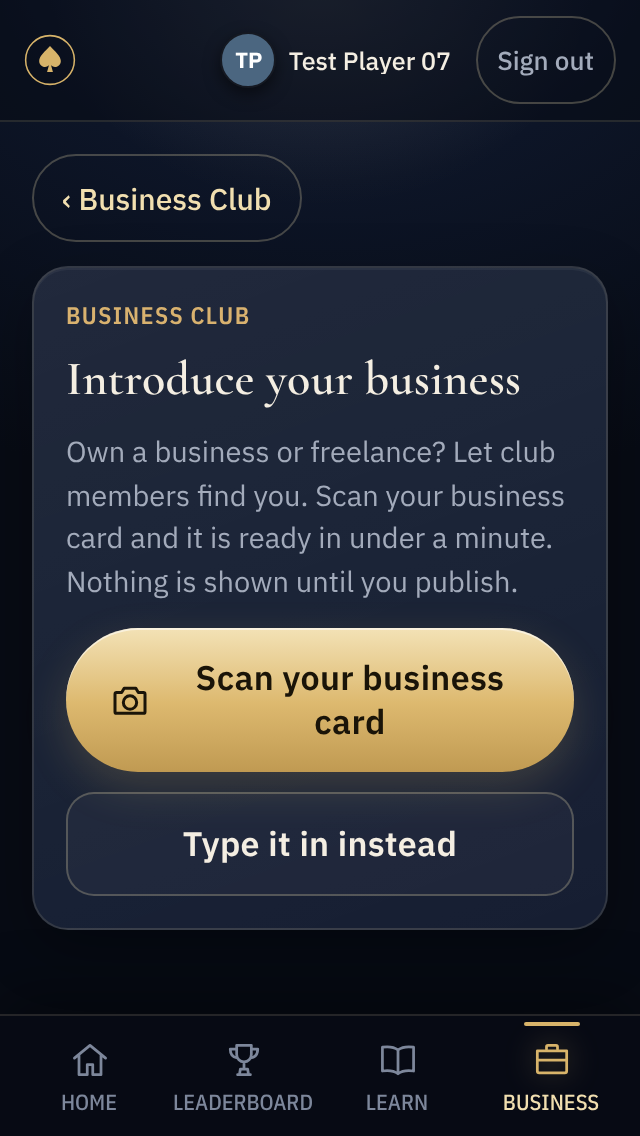
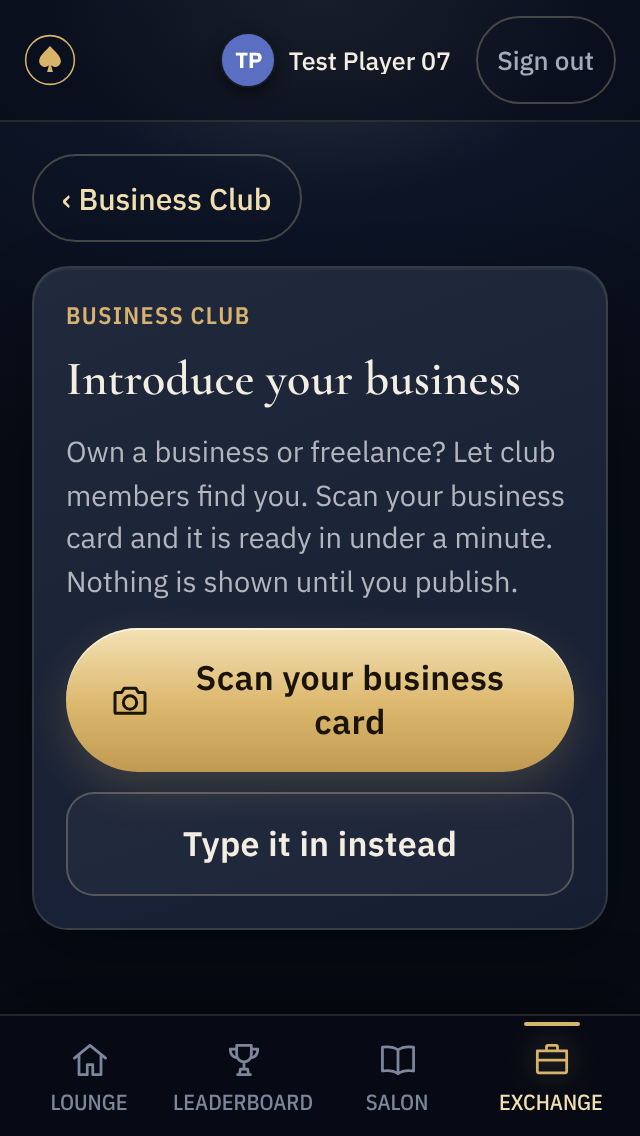
Premium UI increment 2: brand direction (The Lounge, Strategy Table, Exchange, Bulletin, Salon), brand line, ivory/stone accents, refined seats and badges, calm Home
Presentation only; server/ and package files unchanged vs c4445ed.
Tests: t_premium_ui 295 ok / 0 failed, npm test, t_welcome, t_registration, t_mobile_ux (72 ok),
t_table_small, t_bizsearch, scan_csp (SIMD and --no-simd) all pass.

Claude-Session: https://claude.ai/code/session_01NMwfXfHoULCfWgofcbDTQf

diff --git a/public/style.css b/public/style.css
@@ -1327,7 +1327,7 @@ label.btn{display:flex;align-items:center;justify-content:center;gap:8px;cursor:
   --lx-ink:#070b14; --lx-ink2:#0b1222; --lx-navy:#111a2e; --lx-navy2:#17223b; --lx-navy3:#1e2a47;
   --lx-gold:#d8b46a; --lx-gold-hi:#f1dfb0; --lx-gold-deep:#9c7a3c; --lx-ivory:#f4eee2; --lx-mute:#a3abbb; --lx-mute2:#7d879b;
   --lx-hair:rgba(241,223,176,.13); --lx-hair2:rgba(241,223,176,.26); --lx-glass:linear-gradient(160deg,rgba(255,255,255,.065),rgba(255,255,255,.018));
-  --lx-emerald:#3fae7a; --lx-garnet:#b3343c;
+  --lx-stone:#b9b1a3; --lx-stone-deep:#8a8377; --lx-emerald:#3fae7a; --lx-garnet:#b3343c;
   --lx-gold-grad:linear-gradient(180deg,#f3e2b6 0%,#ddb96f 52%,#c09a52 100%);
   /* type */
   --lx-serif:"Cormorant Garamond","Iowan Old Style","Palatino Linotype",Georgia,serif;
@@ -1412,7 +1412,7 @@ body{background:var(--lx-ink)}
 #lobby .seg2.small button{font-size:13px;padding:6px 4px;min-width:0}
 #lobby .form label{font-family:var(--cond);font-size:var(--lx-t-xs);letter-spacing:.16em;text-transform:uppercase;color:var(--lx-gold)}
 #lobby input:not([type=checkbox]):not([type=radio]):not([type=range]):not([type=file]),#lobby select,#lobby textarea,#modalRoot input:not([type=checkbox]):not([type=radio]):not([type=range]):not([type=file]),#modalRoot select,#modalRoot textarea{
-  min-height:var(--lx-tap);background:rgba(5,8,15,.6);border:1px solid var(--lx-hair2);border-radius:12px;color:var(--lx-ivory)}
+  min-height:var(--lx-tap);background-color:rgba(5,8,15,.6);border:1px solid var(--lx-hair2);border-radius:12px;color:var(--lx-ivory)}
 #lobby input:focus,#lobby select:focus,#lobby textarea:focus,#modalRoot input:focus,#modalRoot select:focus,#modalRoot textarea:focus{outline:none;border-color:var(--lx-gold);box-shadow:0 0 0 3px rgba(216,180,106,.18)}
 #lobby details>summary,#modalRoot details>summary{min-height:var(--lx-tap)}
 #lobby .row-btns,#lobby .btn-row{gap:var(--lx-s2)}
@@ -1603,7 +1603,7 @@ body{background:var(--lx-ink)}
   #lobby .hsec-t h2{font-size:23px}
 }
 /* narrow phones: the gold crest alone, so your whole name fits beside it */
-@media (max-width:380px){#lobby .mini-logo .lx-word{display:none}}
+@media (max-width:400px){#lobby .mini-logo .lx-word{display:none}}
 @media (prefers-reduced-motion:reduce){#lobby *,#modalRoot *{transition:none!important}}
 #lobby .av.xs,#modalRoot .av.xs{font-size:11px}
 
@@ -1643,3 +1643,44 @@ body{background:var(--lx-ink)}
 }
 #game .turnrow{position:relative;z-index:3}
 #modalRoot .glass{grid-template-columns:minmax(0,1fr)}
+
+/* ---------- brand direction: The Lounge, ivory and stone accents, editorial type, calm (nothing pulses) ---------- */
+#lobby,#modalRoot{--need:#e6d3a8;--need-soft:rgba(230,211,168,.1);--need-line:rgba(230,211,168,.4)}
+#lobby .op-card-ic,#lobby .op-dhead .op-card-ic{background:rgba(230,211,168,.1);color:var(--lx-gold-hi);border:1px solid rgba(230,211,168,.35)}
+#lobby .offer>.op-card-ic,#lobby .op-dhead .op-card-ic.offer,#lobby .op-detail.offer .op-card-ic{background:rgba(63,174,122,.12);color:#8fe6c4;border-color:rgba(63,174,122,.4)}
+#lobby .hsec-t small.live::before{animation:none}
+#lobby .lx-hello{gap:20px;padding-top:4px}
+#lobby .lx-brandline{display:flex;align-items:baseline;justify-content:space-between;gap:10px;padding-bottom:10px;border-bottom:1px solid var(--lx-hair)}
+#lobby .lx-brandline .eyebrow{color:var(--lx-stone);letter-spacing:.18em}
+#lobby .lx-lounge{font-family:var(--lx-serif);font-style:italic;font-size:17px;color:var(--lx-gold-hi);white-space:nowrap}
+#lobby .lx-greet{color:var(--lx-stone)}
+#lobby .lx-door-t small{color:var(--lx-stone)}
+#lobby .lx-door.lx-poker,#lobby .lx-door.lx-scan{grid-column:1/-1;grid-template-columns:auto 1fr auto;align-items:center;align-content:center}
+#lobby .lx-door.lx-scan{min-height:76px}
+#lobby .lx-scan .lx-chev{display:block}
+#lobby .lx-door{min-height:116px}
+#lobby .lx-motto{margin:4px 0 0;text-align:center;font-size:13px;letter-spacing:.04em;color:var(--lx-stone)}
+#lobby .lx-motto b{display:block;font-family:var(--lx-serif);font-style:italic;font-weight:500;font-size:24px;letter-spacing:.01em;color:var(--lx-ivory);margin-bottom:2px}
+#lobby .lx-motto::before{content:"";display:block;width:56px;height:1px;margin:0 auto 14px;background:linear-gradient(90deg,transparent,var(--lx-gold),transparent)}
+#lobby .lx-pagehead{display:grid;gap:2px;padding:4px 2px 6px}
+#lobby .lx-pagehead .eyebrow{color:var(--lx-stone)}
+#lobby .lx-pagehead h2{margin:0;font-family:var(--lx-serif);font-weight:600;font-size:34px;line-height:1.05;color:var(--lx-ivory);letter-spacing:.005em}
+#lobby .lx-pagehead h2::after{content:"";display:block;width:44px;height:1px;margin-top:10px;background:var(--lx-gold)}
+#lobby .note{border-left-color:var(--lx-stone-deep)}
+#lobby .card-box p,#lobby .hsec-t small{color:#b3b6bd}
+/* table seats: monogram avatars with a lit face and a gold hairline, refined plates, clear but calm status colours
+   (sizes unchanged, so the seat layout solver is unaffected) */
+#game .av{border-color:#0a0f1b;background:radial-gradient(circle at 34% 28%,rgba(255,255,255,.26),rgba(255,255,255,0) 58%),var(--c,#555);box-shadow:0 0 0 1px rgba(216,180,106,.55),0 4px 10px rgba(0,0,0,.55);letter-spacing:.02em}
+#game .av.tiered{box-shadow:0 0 0 2px var(--ring),0 4px 10px rgba(0,0,0,.55)}
+#game .plate{border-radius:10px;box-shadow:inset 0 1px 0 rgba(241,223,176,.14),0 4px 12px rgba(0,0,0,.5)}
+#game .nm{letter-spacing:.01em}
+#game .st{color:var(--lx-gold-hi)}
+#game .seat.hero .plate{border-color:rgba(216,180,106,.6)}
+#game .seat.folded .av,#game .seat.folded .plate{filter:grayscale(.7)}
+#game .badge{background:#24304f;color:var(--lx-ivory);box-shadow:inset 0 0 0 1px rgba(241,223,176,.2)}
+#game .badge.act-call,#game .badge.act-check{background:#2a7a56;color:#effff7;box-shadow:none}
+#game .badge.act-all-in{background:#9e2a31;color:#fff2f2;box-shadow:none}
+#game .badge.hand{background:#1b2643;color:var(--lx-gold-hi);box-shadow:inset 0 0 0 1px rgba(216,180,106,.4)}
+#game .badge.won{background:var(--lx-gold-grad);color:#1a1408;box-shadow:none}
+#game .pot{color:var(--lx-gold-hi)}
+#lobby .tbl td:first-child,#lobby .statgrid b,#lobby .bigpts,#game .lvl b,#modalRoot .prof .statgrid b{font-variant-numeric:lining-nums tabular-nums}

diff --git a/public/app.js b/public/app.js
@@ -177,20 +177,20 @@ function renderLobby(){
   document.querySelector('.app').classList.toggle('wide', tab === 'biz' || (home && clubsVisible && !playing));
   if(tab === 'biz'){ body.replaceChildren(); window.BizClub.render(body); return; }
   if(home) renderHome(body, clubsOn, clubsVisible && !playing);
-  else body.innerHTML = tab === 'board' ? boardHTML() : tab === 'learn' ? learnHTML() : directorHTML();
+  else body.innerHTML = tab === 'board' ? pageHead('Poker · The Strategy Table', 'Club standings') + boardHTML() : tab === 'learn' ? pageHead('Learn', 'The Salon') + learnHTML() : directorHTML();
   wireLobby();
 }
 // ---------- Home: Poker, then Business, then Opportunities ----------
 // The tournament card always comes first. Business and Opportunities show only when the clubs are open (the owner always
 // sees them) and never while you're seated in a running tournament: then Home is poker only.
-const SECTIONS = [['poker', 'spade', 'Poker'], ['biz', 'briefcase', 'Business'], ['opp', 'spark', 'Opportunities']];
+const SECTIONS = [['poker', 'spade', 'Poker'], ['biz', 'briefcase', 'Exchange'], ['opp', 'spark', 'Bulletin']];
 function homeNavHTML(){
   return `<nav class="home-nav" aria-label="Home sections">${SECTIONS.map(([k, ic, l], i) => `<button type="button" class="hn-${k}" data-hs="${k}" aria-current="${i === 0}">${Icons.svg(ic)}<span>${l}</span></button>`).join('')}</nav>`;
 }
 function pokerHeadHTML(){
   const st = club.tourney && club.tourney.status;
-  const sub = st === 'registering' ? 'Registration open' : st === 'running' ? 'Live now' : 'Club tournaments';
-  return `<div class="hsec-head" id="hs-poker"><span class="hsec-ic poker">${Icons.svg('spade')}</span><div class="hsec-t"><h2>Poker</h2><small class="${st === 'running' ? 'live' : ''}">${sub}</small></div>
+  const sub = 'Poker · ' + (st === 'registering' ? 'Registration open' : st === 'running' ? 'Live now' : 'Club tournaments');
+  return `<div class="hsec-head" id="hs-poker"><span class="hsec-ic poker">${Icons.svg('spade')}</span><div class="hsec-t"><h2>The Strategy Table</h2><small class="${st === 'running' ? 'live' : ''}">${sub}</small></div>
     <button type="button" class="hsec-link" data-gotab="board">Leaderboard${Icons.svg('chev')}</button></div>`;
 }
 // decorative only: two cards and a chip on the tournament card
@@ -232,12 +232,16 @@ function memberHomeHTML(clubsOpen){
   const door = (k, title, sub, on) => on
     ? `<button type="button" class="lx-door lx-${k}" data-lx="${k}"><span class="lx-door-ic"><svg viewBox="0 0 24 24" aria-hidden="true">${LX_IC[k]}</svg></span><span class="lx-door-t"><b>${title}</b><small>${sub}</small></span><svg class="lx-chev" viewBox="0 0 24 24" aria-hidden="true"><path d="M9 6l6 6-6 6"/></svg></button>`
     : `<div class="lx-door lx-${k} soon" aria-disabled="true"><span class="lx-door-ic"><svg viewBox="0 0 24 24" aria-hidden="true">${LX_IC[k]}</svg></span><span class="lx-door-t"><b>${title}</b><small>${sub}</small></span><em>Opening soon</em></div>`;
-  return `<section class="lx-hello" aria-label="Your club">
+  return `<section class="lx-hello" aria-label="The Lounge">
+    <div class="lx-brandline"><span class="eyebrow">Blindrise · Private Members Club</span><span class="lx-lounge">The Lounge</span></div>
     <div class="lx-id">${avHTML(me.id, me.name, 'big')}<div class="lx-id-t"><span class="lx-greet">${greet},</span><h2>${esc(me.name.split(' ')[0])}</h2>
       <div class="lx-id-meta">${me.owner ? '<span class="lx-role">Club director</span>' : '<span class="lx-role">Member</span>'}${tierPill(m)}${pts != null ? `<span class="lx-pts"><b class="num">${fmt(pts)}</b> points</span>` : ''}</div></div></div>
-    <div class="lx-doors">${door('poker', 'Poker Club', poker, true)}${door('biz', 'Business Club', "Members' businesses, shared in trust", clubsOpen)}${door('opp', 'Opportunity Club', 'Ask the club for help, or offer it', clubsOpen)}${door('scan', 'Card Scanner', 'Turn a business card into your profile', clubsOpen)}</div>
+    <div class="lx-doors">${door('poker', 'The Strategy Table', 'Poker · ' + poker, true)}${door('biz', 'The Exchange', "Business Club · members' businesses", clubsOpen)}${door('opp', 'The Bulletin', 'Opportunity Club · ask for help, or offer it', clubsOpen)}${door('scan', 'Business Card Scanner', 'Turn a business card into your profile', clubsOpen)}</div>
+    <p class="lx-motto"><b>Pull Up a Chair.</b> Good Company. Meaningful Connections.</p>
   </section>`;
 }
+// a quiet page title for Leaderboard and Learn, in the club's own names
+const pageHead = (eyebrow, title) => `<header class="lx-pagehead"><span class="eyebrow">${eyebrow}</span><h2>${title}</h2></header>`;
 $('lobbyBody').addEventListener('click', e => {
   const d = e.target.closest('[data-lx]'); if(!d) return;
   const k = d.dataset.lx;
@@ -400,7 +404,7 @@ function boardHTML(){
   }));
   const rows = [...agg.values()].sort((a, b) => b.pts - a.pts || b.wins - a.wins);
   if(boardSeg === 'prizes') return prizesHTML();
-  return `<div class="seg2">${[['board','Leaderboard'],['prizes','Prizes']].map(([k, l]) => `<button data-bseg="${k}" aria-pressed="${boardSeg === k}">${l}</button>`).join('')}</div><div class="card-box"><span class="eyebrow">Club leaderboard</span>
+  return `<div class="seg2">${[['board','Leaderboard'],['prizes','Prizes']].map(([k, l]) => `<button data-bseg="${k}" aria-pressed="${boardSeg === k}">${l}</button>`).join('')}</div><div class="card-box"><span class="eyebrow">Recognition for good play</span>
     <div class="seg2 small">${[['week','This week'],['month','30 days'],['all','All time']].map(([k, l]) => `<button data-range="${k}" aria-pressed="${boardRange === k}">${l}</button>`).join('')}</div>
     ${rows.length ? `<table class="tbl dark"><thead><tr><th>#</th><th>Player</th><th>Played</th><th>Wins</th><th>Cashes</th><th>Points</th></tr></thead><tbody>
       ${rows.map((r, i) => `<tr class="${r.uid === club.me.id ? 'me' : ''}"><td>${i + 1}</td><td><span class="lb-name" data-prof="${esc(r.uid)}">${avHTML(r.uid, nameOf(r.uid), 'xs')}${esc(nameOf(r.uid))}</span></td><td class="num">${r.played}</td><td class="num">${r.wins}</td><td class="num">${r.cashes}</td><td class="num">${r.pts}</td></tr>`).join('')}</tbody></table>`

diff --git a/public/opportunity.js b/public/opportunity.js
@@ -294,7 +294,7 @@ function renderMine(el){
   const seg = h('div', { class: 'op-seg small', role: 'tablist' },
     h('button', { type: 'button', role: 'tab', 'aria-selected': String(O.mineTab !== 'sent'), onclick: () => { O.mineTab = 'listings'; renderMine(el); } }, 'My listings', waiting ? h('span', { class: 'op-dot' }, String(waiting)) : null),
     h('button', { type: 'button', role: 'tab', 'aria-selected': String(O.mineTab === 'sent'), onclick: () => { O.mineTab = 'sent'; renderMine(el); } }, 'Requests I sent'));
-  const kids = [bk, h('div', { class: 'card-box bz-head' }, h('span', { class: 'eyebrow bz-eyebrow' }, 'Opportunity Club'), h('h2', null, 'My opportunities'), seg)];
+  const kids = [bk, h('div', { class: 'card-box bz-head' }, h('span', { class: 'eyebrow bz-eyebrow' }, 'The Bulletin · Opportunity Club'), h('h2', null, 'My opportunities'), seg)];
   if(O.mineTab === 'sent'){
     if(!M.sent.length) kids.push(h('div', { class: 'card-box bz-empty' }, h('span', { class: 'bz-empty-art', 'aria-hidden': 'true' }, I('inbox')), h('h3', null, 'No requests yet'), h('p', null, 'When you tap "I can help" or "I\'m interested" on a listing, it shows up here with the reply.'), h('button', { class: 'btn big', onclick: () => go('feed') }, 'Browse listings')));
     for(const r of M.sent) kids.push(sentCard(r));
@@ -383,7 +383,7 @@ function badge(btn, playing){
 let homeData = null, homeAt = 0;
 function homeInto(sec){
   const n = homeData ? homeData.items.length : 0;
-  const head = B.secHead('hs-opp', ['spark', 'opp'], 'Opportunities', n ? (n === 1 ? '1 open listing' : n + ' open listings') : 'Ask the club, or offer a hand', homeData ? [n ? 'See all' : 'Open', () => go('feed')] : null);
+  const head = B.secHead('hs-opp', ['spark', 'opp'], 'The Bulletin', n ? (n === 1 ? '1 open listing' : n + ' open listings') : 'Ask the club, or offer a hand', homeData ? [n ? 'See all' : 'Open', () => go('feed')] : null);
   if(!homeData){ sec.replaceChildren(head, bigButtons(), h('div', { class: 'op-homelist', 'aria-hidden': 'true' }, h('span', { class: 'op-card sk' }), h('span', { class: 'op-card sk' }))); return; }
   const items = homeData.items.slice(0, 4);
   sec.replaceChildren(...[head, bigButtons(),

diff --git a/public/index.html b/public/index.html
@@ -69,10 +69,10 @@
     <div class="me-chip" id="meChip"></div>
   </div>
   <div class="tabs" role="tablist" id="tabs">
-    <button role="tab" data-tab="event" aria-selected="true"><svg viewBox="0 0 24 24" aria-hidden="true"><path d="M3.5 11 12 4l8.5 7M6 9.5V20h4.5v-5.5h3V20H18V9.5"/></svg><span>Home</span></button>
+    <button role="tab" data-tab="event" aria-selected="true"><svg viewBox="0 0 24 24" aria-hidden="true"><path d="M3.5 11 12 4l8.5 7M6 9.5V20h4.5v-5.5h3V20H18V9.5"/></svg><span>Lounge</span></button>
     <button role="tab" data-tab="board" aria-selected="false"><svg viewBox="0 0 24 24" aria-hidden="true"><path d="M8 4h8v5a4 4 0 0 1-8 0zM8 6H4.5c0 3 1.5 4.5 3.7 4.8M16 6h3.5c0 3-1.5 4.5-3.7 4.8M12 13v4M8.5 20h7M10 17h4l.5 3h-5z"/></svg><span>Leaderboard</span></button>
-    <button role="tab" data-tab="learn" aria-selected="false"><svg viewBox="0 0 24 24" aria-hidden="true"><path d="M12 6.5C10 5 7 4.5 3.5 5v13c3.5-.5 6.5 0 8.5 1.5 2-1.5 5-2 8.5-1.5V5C17 4.5 14 5 12 6.5zM12 6.5v13"/></svg><span>Learn</span></button>
-    <button role="tab" data-tab="biz" aria-selected="false" class="biz-tab"><svg viewBox="0 0 24 24" aria-hidden="true"><path d="M9 6V4.8c0-.4.4-.8.8-.8h4.4c.4 0 .8.4.8.8V6M4 7h16v11a1 1 0 0 1-1 1H5a1 1 0 0 1-1-1zM4 12h16"/></svg><span>Business</span></button>
+    <button role="tab" data-tab="learn" aria-selected="false"><svg viewBox="0 0 24 24" aria-hidden="true"><path d="M12 6.5C10 5 7 4.5 3.5 5v13c3.5-.5 6.5 0 8.5 1.5 2-1.5 5-2 8.5-1.5V5C17 4.5 14 5 12 6.5zM12 6.5v13"/></svg><span>Salon</span></button>
+    <button role="tab" data-tab="biz" aria-selected="false" class="biz-tab"><svg viewBox="0 0 24 24" aria-hidden="true"><path d="M9 6V4.8c0-.4.4-.8.8-.8h4.4c.4 0 .8.4.8.8V6M4 7h16v11a1 1 0 0 1-1 1H5a1 1 0 0 1-1-1zM4 12h16"/></svg><span>Exchange</span></button>
     <button role="tab" data-tab="director" aria-selected="false" id="dirTab" hidden><svg viewBox="0 0 24 24" aria-hidden="true"><path d="M5 5v14M12 5v14M19 5v14"/><circle cx="5" cy="15" r="2"/><circle cx="12" cy="8" r="2"/><circle cx="19" cy="13" r="2"/></svg><span>Director</span></button>
   </div>
   <div class="scroll" id="lobbyBody"><div class="empty">Connecting to the club…</div></div>

diff --git a/public/business.js b/public/business.js
@@ -84,7 +84,7 @@ function header(){
   const status = S.mine === undefined ? null : !S.mine ? 'Add your business' : S.mine.published && !S.mine.modHidden ? 'My business · Listed' : 'My business · Not listed';
   return h('div', { class: 'card-box bz-head' },
     h('div', { class: 'bz-head-t' }, h('span', { class: 'hsec-ic biz' }, I('briefcase')), h('div', null,
-      h('span', { class: 'eyebrow bz-eyebrow' }, 'Business Club'),
+      h('span', { class: 'eyebrow bz-eyebrow' }, 'The Exchange · Business Club'),
       h('h2', null, "Members' businesses"))),
     h('p', null, 'Work with people you already play with. Only signed-in club members can see this directory. It has nothing to do with poker results.'),
     h('div', { class: 'btn-row' }, h('button', { class: 'btn bz-gold big', onclick: () => go('mine') }, status || 'My business')));
@@ -475,7 +475,7 @@ function secHead(id, icon, title, sub, link){
 }
 function homeInto(sec){
   const f = S.feed;
-  const head = (total) => secHead('hs-biz', ['briefcase', 'biz'], 'Business', total ? (total === 1 ? '1 member business' : total + ' member businesses') : "Your friends' businesses",
+  const head = (total) => secHead('hs-biz', ['briefcase', 'biz'], 'The Exchange', total ? (total === 1 ? '1 member business' : total + ' member businesses') : "Your friends' businesses",
     total ? ['See all', () => go('list', { seg: 'biz' })] : null);
   // still loading: the header and placeholder cards, so the page doesn't jump when the cards arrive
   if(!f){ sec.replaceChildren(head(0), h('div', { class: 'bz-rail home', 'aria-hidden': 'true' }, [0, 1, 2].map(() => h('span', { class: 'bz-vcard sk' })))); return; }

diff --git a/docs/release/R2-premium-ui-handoff.md b/docs/release/R2-premium-ui-handoff.md
@@ -27,10 +27,36 @@ The Welcome screen's midnight navy, champagne gold and glass now run through eve
   - No blur or animation was added to the table.
 - **Profile and dialogs.** Navy glass sheets with serif titles. A pre-existing 320 px sideways overflow in the profile sheet is fixed.
 
+## Brand direction applied (founder, via coordinator)
+
+These change user-facing labels only. Routes, element ids, API fields and handlers are unchanged.
+
+- **The Lounge** is the member home. It carries the brand line ("Blindrise · Private Members Club", "Pull Up a Chair.", "Good Company. Meaningful Connections.") and the tab is now named Lounge.
+- **The Strategy Table** always appears together with "Poker". The door reads "Poker · …", the Home section is "The Strategy Table" with "Poker · Club tournaments", and the leaderboard page is "Poker · The Strategy Table / Club standings".
+- **The Exchange** is Business Club, both on the tab and in the headings ("The Exchange · Business Club").
+- **The Bulletin** is Opportunity Club. The Business tab's inner segments still read "Businesses" and "Opportunities", so tests and members can still find them.
+- **The Salon** is Learn, both on the tab and in the page title.
+- **Business Card Scanner** keeps its name.
+- **Look:** midnight navy and champagne gold, with ivory and stone accents, serif editorial headings and generous spacing.
+- **Calm:** nothing pulses. The "live" dot no longer blinks on Home, and there are no urgency badges.
+- **Leaderboard:** presented as "Recognition for good play". Points are unchanged.
+- **Wording:** no copy implies that Blindrise endorses or guarantees any business or listing.
+- **Photography:** monogram avatars with a lit face and a gold hairline. No photos and no new image origins.
+
+## Remaining work
+
+- Real member and club photography, once it is licensed.
+- The Business tab's inner segment labels: they could take the new names after the tests that use them are updated.
+- A real-iPhone pass on the preview service.
+
 ## JS changes (presentation only)
 
-- `public/app.js`: `memberHomeHTML()` and a click handler for its doors (`[data-lx]`). `renderHome` prepends it. It reads only `club.me`, `club.tourney`, `club.shop` and `memberOf()`.
-- `public/business.js`: `BizClub.show(seg)`, which opens the Business tab on `biz`, `opp` or `scan`, the same views the existing buttons open.
+- `public/app.js`:
+  - `memberHomeHTML()` and a click handler for its doors (`[data-lx]`). `renderHome` prepends it. It reads only `club.me`, `club.tourney`, `club.shop` and `memberOf()`.
+  - `pageHead()` titles on Leaderboard and Learn.
+  - Label strings: the Home section names and the poker section heading.
+- `public/opportunity.js`: two label strings.
+- `public/business.js`: two label strings, and `BizClub.show(seg)`, which opens the Business tab on `biz`, `opp` or `scan`, the same views the existing buttons open.
 - `public/index.html`: inline SVG icons inside the tab buttons (labels wrapped in `<span>`), and the crest in the top bar.
 
 ## Tests (see the commit message for the exact counts)
